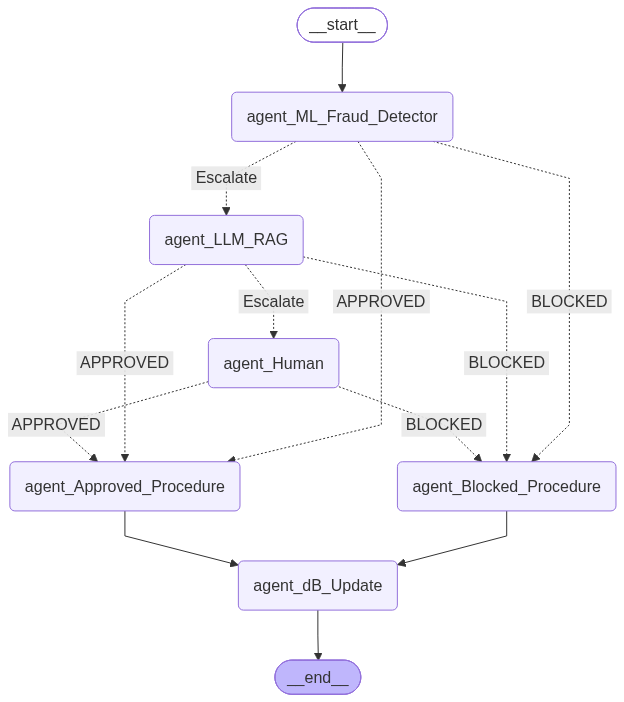
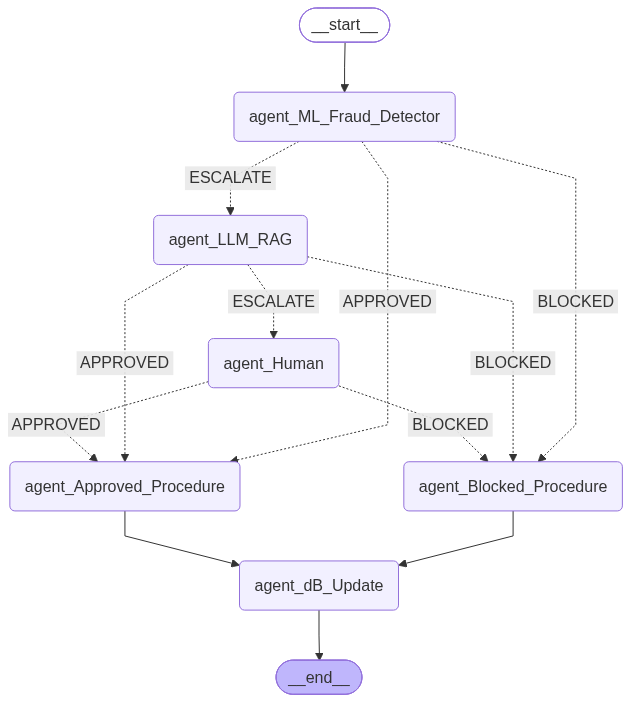
include LLM with prompt and react-agent

diff --git a/src/agents/agent_llm_rag.py b/src/agents/agent_llm_rag.py
@@ -7,8 +7,61 @@ from langchain_core.messages import SystemMessage, BaseMessage, HumanMessage, AI
 from agents.agent_common import AgentState, GraphAction, GraphNode, invoke_react_agent
 from utils import get_val
 from config import settings
+from tools.ltm_db_tools import get_top_n_context, get_top_n_context_for_human
 
 logger = logging.getLogger(__name__)
+
+# ------------------------------------------------------------------------------
+# Tools & Structured Output Schema
+# ------------------------------------------------------------------------------
+TOOLS = [get_top_n_context]
+
+
+class ClassificationOutput(BaseModel):
+    action: Literal["APPROVED", "BLOCKED", "ESCALATE"] = Field(
+        description='APPROVED: when transaction is Legit, BLOCKED: when transaction is Fraud , ESCALATE when uncertain.'
+    )
+    confidence: float = Field(
+        ge=0.0, le=1.0, description="Confidence score between 0.0 and 1.0 on transaction classification"
+    )
+    context:str = Field(description="context that retrieved from Long-Term Memory (LTM) during investigation")
+    reasoning:str = Field(description='Brief 2-3 sentence explanation comparing current features against context.')
+
+# ------------------------------------------------------------------------------
+# Prompt Design
+# ------------------------------------------------------------------------------
+CLASSIFICATION_PROMPT ="""
+You are an expert Senior Fraud Risk Analyst operating in an automated triage system.
+Your job is to evaluate escalated transactions where the machine learning classifier model was uncertain.
+
+### INPUT DATA
+transaction_data: {transaction_data}
+ml_model_fraud_prob: {fraud_prob: .4f}
+
+### INSTRUCTION
+1. Use `get_top_n_context` tool with transaction_data to retrieve similar historical transactions.
+    - Note: distance = 0 indicates an EXACT match in feature space.
+
+2. Evaluate Evidence Quality:
+    - If top historical matches (distance near 0) are overwhelmingly FRAUD, classify as FRAUD.
+    - If top historical matches are overwhelmingly LEGIT, classify as LEGIT.
+    - Note on Risk Asymmetry: Missing fraud (False Negative) is significantly worse than blocking a legit customer (False Positive).
+
+3. Calibrate Your Confidence & Action:
+    - Do NOT simply copy the input `ml_model_fraud_prob` as your confidence.
+    - If LTM provides a near-exact match (distance ~ 0) to known historical labels, your confidence MUST be HIGH (e.g., > 0.85).
+    - Reserve ESCALATE for cases where LTM context is contradictory (e.g., equal distance to both fraud and legit records) or lacks close matches.
+
+4. REQUIRED OUTPUT FORMAT:
+    - Action: [BLOCKED | APPROVED | ESCALATE]
+    - Confidence: [0.0 - 1.0]
+    - Reasoning: Concisely state key features, LTM match distance, and evidence balance.
+"""
+
+CLASSIFICATION_PROMPT_TEMPLATE = PromptTemplate(
+    input_variables=["transaction_data", "fraud_prob"],
+    template=CLASSIFICATION_PROMPT
+)
 
 # ------------------------------------------------------------------------------
 # LangGraph Node Function
@@ -25,20 +78,49 @@ def llm_rag_node(state: AgentState, config: RunnableConfig) -> AgentState:
         AgentState: Partial state update dict for LangGraph.
     """
     try:
+        llm = config.get("configurable").get("llm")
         current_node = GraphNode.llm
         response_dic = state.get("response_dic", {})
         fraud_prob = state.get("fraud_prob", 1.0)
-        if fraud_prob < 0.25:
+        features = state.get("features", {})
+        context_for_human, _ = get_top_n_context_for_human(features)
+
+        # Format System Prompt
+        sys_message = CLASSIFICATION_PROMPT_TEMPLATE.format(
+            transaction_data=features,
+            fraud_prob =  fraud_prob
+        )
+        messages = [SystemMessage(content=sys_message)]
+
+        result, tools_used = invoke_react_agent(ClassificationOutput, messages, llm, TOOLS)
+
+        data = result.get("structured_response") if isinstance(result, dict) else result
+        ai_msg = result.get("messages", []) if isinstance(result, dict) else []
+
+        action = get_val(data, "action") or GraphAction.escalate
+        llm_reasoning = get_val(data, "reasoning") or ""
+        llm_confidence = get_val(data, "confidence") or 0.0
+        llm_context = get_val(data, "context") or ""
+
+        logging_dict = {
+            "action": action,
+            "tools_used": tools_used,
+            "llm_confidence": llm_confidence,
+        }
+        logger.info(logging_dict)
+
+
+        if action ==  GraphAction.approved:
             pred_class = 0
             next_node = GraphNode.approved
             decision_node = GraphNode.llm
-            action = GraphAction.approved
+            #action = GraphAction.approved
             response=f'Legit-Transaction send to {next_node} (fraud-prob: {fraud_prob:.5%})'
-        elif fraud_prob > 0.75:
+        elif action ==  GraphAction.blocked:
             pred_class = 1
             next_node = GraphNode.blocked
             decision_node = GraphNode.llm
-            action = GraphAction.blocked
+            #action = GraphAction.blocked
             response=f'Fraud-Transaction send to {next_node} (fraud-prob: {fraud_prob:.5%})'
         else:
             pred_class = 2
@@ -57,7 +139,15 @@ def llm_rag_node(state: AgentState, config: RunnableConfig) -> AgentState:
             'next_node': next_node,
             'action': action,
             'response_dic': response_dic,
+            "tools_used": tools_used,
+            "func_used": ['get_top_n_context_for_human'],
+            "messages": ai_msg,
+            "llm_confidence": llm_confidence,
+            "llm_reasoning" : llm_reasoning,
+            "llm_context": llm_context,
+            'context': context_for_human,
             #"func_used": ['get_fraud_prob_from_ml_classifier'],
+
             "error": None
         }
         logger.info(f"response={response}")

diff --git a/src/tools/ltm_db_tools.py b/src/tools/ltm_db_tools.py
@@ -10,6 +10,7 @@ from db_model.ltm_model import (
     get_or_create_vector_db_collection,
     query_top_n_closest_from_df,
 )
+from langchain_core.tools import tool
 
 logger = logging.getLogger(__name__)
 
@@ -93,7 +94,7 @@ def add_single_transaction_to_vector_db(
         logger.error(f'Error in add_single_transaction_to_vector_db: {e}')
         raise
 
-
+@tool
 def get_top_n_context(transaction_data:dict['str', float], top_n:int = 3)->str:
     """
     get top_n closest-cosine-distance neighbors from vector-database and format as proper context for LLM-agent
@@ -105,6 +106,27 @@ def get_top_n_context(transaction_data:dict['str', float], top_n:int = 3)->str:
         report in string format
     """
     try:
+        resp_str, _= get_top_n_context_for_human(transaction_data, top_n)
+        return resp_str
+    except Exception as e:
+        logger.error(f'Error in get_top_n_context: {e}')
+        return "No document found"
+
+
+# avoid mixing tool-usage and function call
+def get_top_n_context_for_human(transaction_data:dict['str', float], top_n:int = 3)->tuple[str, pd.DataFrame]:
+    """
+    get top_n closest-cosine-distance neighbors from vector-database and format as proper context for LLM-agent
+    distance is between [0,2] with 0 is the best (exact match), and 2 is the worst
+    Args:
+        - transaction_data: transaction data in dict format [V1 tp V28 and Amount, Hour/2]
+        - top_n: number of top closest results to be reported
+    Return:
+        report in string format, and dataframe format
+    Raises:
+        Exception: Re-raises any exception caught during processing after logging.
+    """
+    try:
         single_row_df = pd.DataFrame([transaction_data])
         resp_df, qid = query_top_n_closest_from_df(single_row_df, top_n=top_n)
         #id 	distance 	Amount 	Hour_Block 	fraud_prob 	actual_class 	label 	node
@@ -113,8 +135,8 @@ def get_top_n_context(transaction_data:dict['str', float], top_n:int = 3)->str:
         resp_str=''
         for j, r in resp_df.iterrows():
             resp_str +=f'[doc-{j+1}]-' + ", ".join(f"{k}: {v}" for k, v in r.items())+"\n"
-        return resp_df, resp_str
+        return resp_str, resp_df
     except Exception as e:
-        logger.error(f'Error in get_top_n_context: {e}')
-        return "No document found"
+        logger.error(f'Error in get_top_n_context_for_human: {e}')
+        raise
 

diff --git a/src/agents/agent_common.py b/src/agents/agent_common.py
@@ -27,11 +27,11 @@ class GraphNode:
 
 @dataclass
 class GraphAction:
-    escalate: str = 'Escalate'
+    escalate: str = 'ESCALATE'
     #classified: str = 'Classified'
     approved: str = 'APPROVED'
     blocked: str = 'BLOCKED'
-    in_prog:str ="In_Progress"
+    #in_prog:str ="In_Progress"
 
 # Define the state object
 class AgentState(TypedDict):
@@ -58,7 +58,7 @@ class AgentState(TypedDict):
     next_node: GraphNode | None
     current_node: GraphNode | None
     decision_node: GraphNode | None # The node which really make decision as Legit/Fraud(or we could add previous_node, but this will avoid any ambiguity)
-    action: GraphAction
+    action: GraphAction | None
 
     response_dic:dict # short report from Detector, LLM, and Human in dict-format
 
@@ -69,6 +69,10 @@ class AgentState(TypedDict):
 
     # logging timestamp
     timestamp_str:str
+
+    llm_confidence: float | None
+    llm_reasoning: str | None
+    llm_context: str | None #LLM tend to summarize the content when return and we do not force it (to avoid token usage)
 
     #
     error: str | None # in case of node error
@@ -87,11 +91,14 @@ def get_init_state() -> dict:
         'next_node': None,
         'current_node': None,
         'decision_node': None,
-        'action': 'In_Progress',
+        'action': None,
         'response_dic': {},
         'tool_used': [],
         #'func_used': [], # We may not need to re-init with empty list it has operator.add
         'timestamp_str': '',
+        'llm_confidence': None,
+        'llm_reasoning': None,
+        'llm_context': None,
         'error': None
     }
 

diff --git a/src/agents/agent_db_update.py b/src/agents/agent_db_update.py
@@ -35,6 +35,7 @@ def db_update_node(state: AgentState, config: RunnableConfig) -> AgentState:
             pred_class = pred_class,
             source_id = source_id
         )
+        func_used=['log_transaction']
         response=f'{timestamp_str}:transaction[{lod_id}] logged to dB.'
 
         if (pred_class == 0) and (actual_class == 0):
@@ -60,6 +61,7 @@ def db_update_node(state: AgentState, config: RunnableConfig) -> AgentState:
                 actual_label= label,
                 node = decision_node
             )
+            func_used.append('add_single_transaction_to_vector_db')
             if is_new_insert:
                 response +=f'{label} with doc-id={doc_id} ADDED to Vector-dB (LTM).'
             else:
@@ -76,7 +78,7 @@ def db_update_node(state: AgentState, config: RunnableConfig) -> AgentState:
             'next_node': next_node,
             #'action': action,
             'response_dic': response_dic,
-            #"func_used": ['get_fraud_prob_from_ml_classifier'],
+            "func_used": func_used,
             "timestamp_str": timestamp_str,
             "error": None
         }

diff --git a/agentic_system.py b/agentic_system.py
@@ -78,6 +78,16 @@ def main():
                 if resp_dic:
                     for k,v in resp_dic.items():
                         print(f'{v}', tag=f'{k}-node', tag_color=tag_color_map[k])
+                        if k == GraphNode.llm:
+                            print('-'*60)
+                            context = state.get('context',"") # note llm_context is summarized version of context
+                            llm_reasoning = state.get('llm_reasoning',"")
+                            llm_confidence = state.get('llm_confidence',0.0)
+                            print(f':', tag='context', tag_color='yellow')
+                            print(f'{context}')
+                            print(f'{llm_reasoning}', tag='llm_reasoning', tag_color='yellow')
+                            print(f'{llm_confidence}', tag='llm_confidence', tag_color='yellow')
+
     except Exception as e:
         logger.error(f"Error in assistant or main-telemetry loop: {e}")
         print(f"\nUnexpected error: {str(e)}", color='red')

diff --git a/src/utils.py b/src/utils.py
@@ -1152,7 +1152,8 @@ def init_and_setup_db(db_path: Path, base_cls: declarative_base, force_reset:boo
                 db_path.unlink()
                 print(f"Existing database at {db_path} removed.")
             else:
-                print(f'database already exist at :{db_path} (no action is taken)')
+                #comment this print for less noisy output
+                #print(f'database already exist at :{db_path} (no action is taken)')
                 return
         else:
             print(f'No database at {db_path}, Init and setup for the first time!')

diff --git a/src/db_model/ltm_model.py b/src/db_model/ltm_model.py
@@ -297,7 +297,8 @@ def init_ltm_db(force_reset:bool = False):
                 reset_vector_db_on_disk()
                 print(f"Existing database at {db_path} removed.")
             else:
-                print(f'database already exist at :{db_path} (no action is taken)')
+                #comment this print for less noisy output
+                #print(f'database already exist at :{db_path} (no action is taken)')
                 return
         else:
             print(f'No database at {db_path}, Init and setup for the first time!')
